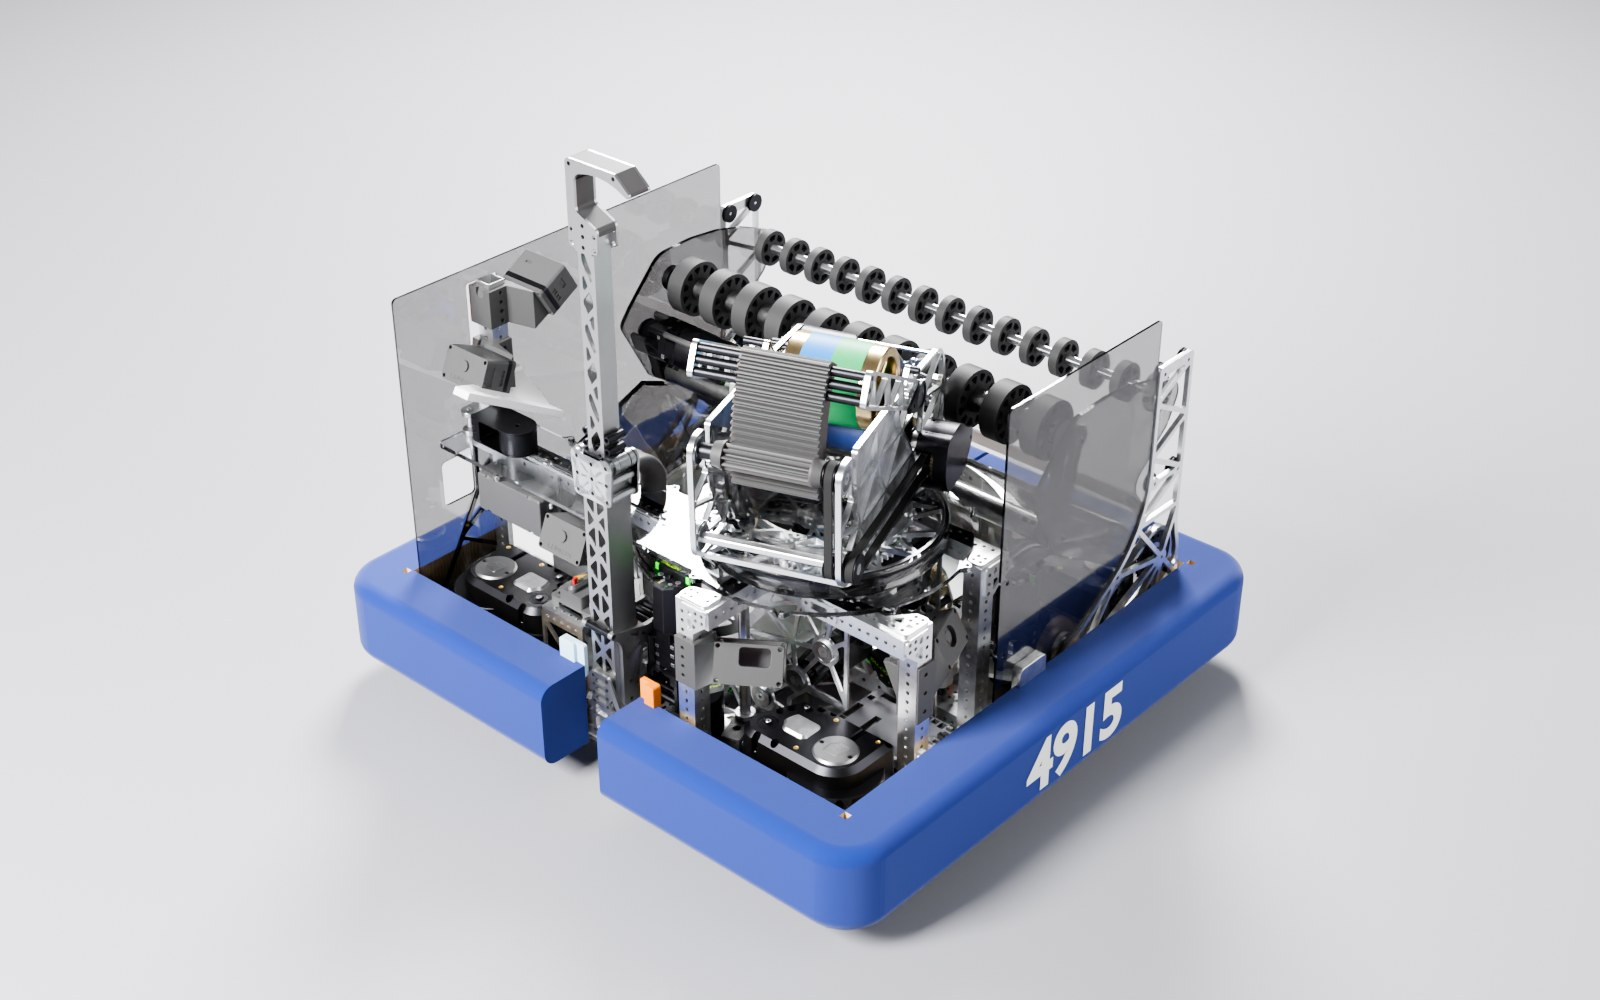
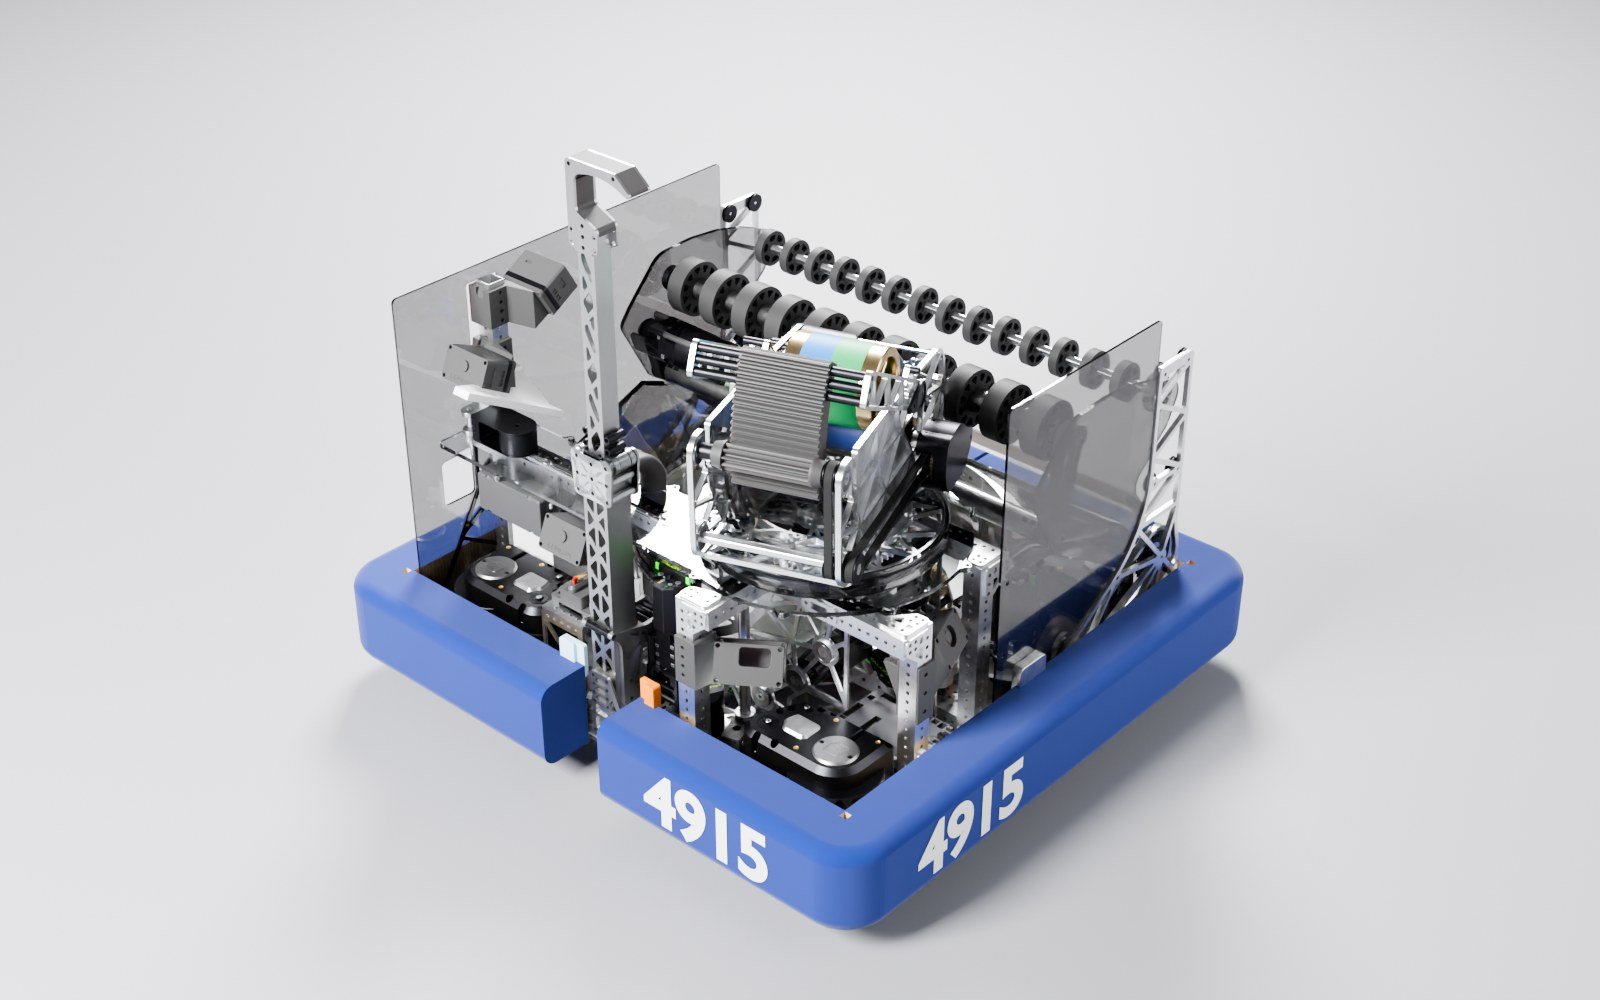
Place bumper numbers as on the real robot
The team photo and the reveal video show "4915" on both side bumpers
toward the rear, and on the right half of the back bumper (the back is
split around the climber). Previews re-rendered.

Claude-Session: https://claude.ai/code/session_014vvMYRo6V5vU6NEvAgyppW

Changed region(s): [[0.5625, 0.682, 0.7188, 0.868], [0.4062, 0.775, 0.5, 0.899]]

diff --git a/build_artemis.py b/build_artemis.py
@@ -635,8 +635,12 @@ def organise_collections(parts, robot_col):
         move_to_collection(o, cols[label])
 
 
+NUMBER_SIDE_X = -0.20   # centre of the side numbers along the robot (rear half)
+NUMBER_BACK_Y = -0.22   # centre of the back number (right half of the back bumper)
+
+
 def add_bumper_numbers(parts, root, text):
-    """White team numbers on the flat face of the left and right bumpers
+    """White team numbers on the flat face of the side and back bumpers
     (the CAD bumpers have none; the real ones do)."""
     bump = [p for p in parts if p["onshape_path"].startswith("91 - 2026 Bumpers")
             and any(s.material and s.material.name == "Bumper Fabric" for s in p.material_slots)]
@@ -665,10 +669,15 @@ def add_bumper_numbers(parts, root, text):
     col = bump[0].users_collection[0]
     gap = 0.0008
     r90 = math.radians(90)
+    # As on the real robot (team photo and reveal video): on both sides toward
+    # the rear, and on the right half of the back bumper (the back is split in
+    # the middle around the climber).
+    xs, yb = NUMBER_SIDE_X, NUMBER_BACK_Y
     placements = {
-        "L": ((0.0, mx.y + gap, zc), (r90, 0.0, math.pi)),
-        "R": ((0.0, mn.y - gap, zc), (r90, 0.0, 0.0)),
-    }  # front/back bumpers are split in the middle, so numbers go on the sides (as on the robot)
+        "L": ((xs, mx.y + gap, zc), (r90, 0.0, math.pi)),
+        "R": ((xs, mn.y - gap, zc), (r90, 0.0, 0.0)),
+        "B": ((mn.x - gap, yb, zc), (r90, 0.0, -r90)),
+    }
     for side, (loc, rot) in placements.items():
         o = bpy.data.objects.new(f"Bumper Number {side}", me)
         col.objects.link(o)
@@ -799,7 +808,7 @@ def parse_args():
     ap.add_argument("--no-demo", action="store_true", help="skip the demo animation")
     ap.add_argument("--report", default=None, help="write a JSON joint/part summary here")
     ap.add_argument("--team-number", default="4915",
-                    help="bumper numbers to add on the left and right bumpers ('' for none)")
+                    help="bumper numbers to add on the side and back bumpers ('' for none)")
     return ap.parse_args(argv)
 
 
